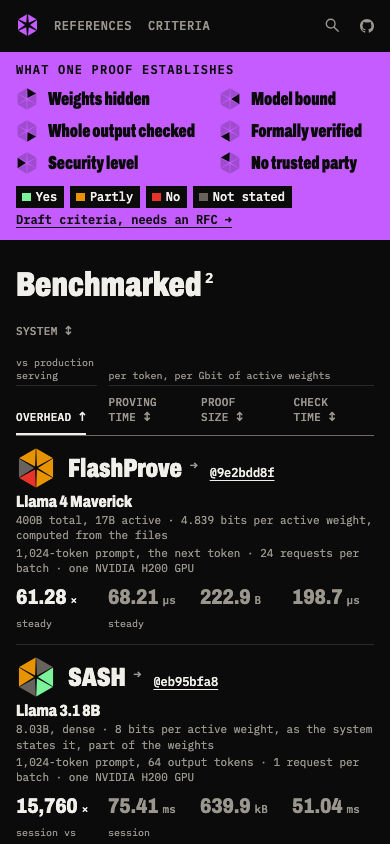
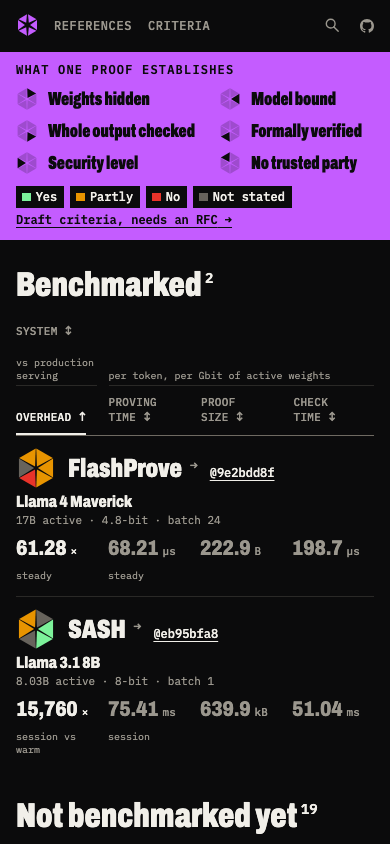
Overview: the model under each system in one short line
Owner feedback on #360: the model text under each system name says only
what a comparison needs, as concisely as the figures. Line 1 the model
name; line 2 active parameters, the weight width the per-Gbit columns
divide by, and the batch size ("17B active · 4.8-bit · batch 24"), plus
the division for a closed or open workload. Total parameters, the
width's basis, prompt and output lengths and the GPUs move to the model
cell's title; the system page keeps all of them.

Claude-Session: https://claude.ai/code/session_011qCSbnjLPKFSQTeMa9vkid

diff --git a/harness/tests/golden/site/index.html b/harness/tests/golden/site/index.html
@@ -20,7 +20,7 @@
     <div class="sysc" role="rowheader" aria-labelledby="fixture-closed-name">
       <a class="pie" href="/fixture-closed#claims-sound-defaults" tabindex="-1" aria-hidden="true"><svg class="pie-svg" viewBox="0 0 120 120" width="120" height="120" aria-hidden="true" focusable="false"><path class="sl s1 unstated" data-n="1" data-name="Weights hidden" data-word="Not stated" d="M60.74 1.33L110.45 30.02L62.81 55.13Z"/><path class="sl s2 yes" data-n="2" data-name="Model bound" data-word="Yes" d="M111.18 31.30L111.18 88.70L65.62 60.00Z"/><path class="sl s3 yes" data-n="3" data-name="Whole output checked" data-word="Yes" d="M110.45 89.98L60.74 118.67L62.81 64.87Z"/><path class="sl s4 unstated" data-n="4" data-name="Formally verified" data-word="Not stated" d="M59.26 118.67L9.55 89.98L57.19 64.87Z"/><path class="sl s5 partly" data-n="5" data-name="Security level" data-word="Partly" d="M8.82 88.70L8.82 31.30L54.38 60.00Z"/><path class="sl s6 partly" data-n="6" data-name="No trusted party" data-word="Partly" d="M9.55 30.02L59.26 1.33L57.19 55.13Z"/><g class="hit"><path class="h1" data-n="1" d="M60.00 0.90L111.18 30.45L60.00 60.00Z"/><path class="h2" data-n="2" d="M111.18 30.45L111.18 89.55L60.00 60.00Z"/><path class="h3" data-n="3" d="M111.18 89.55L60.00 119.10L60.00 60.00Z"/><path class="h4" data-n="4" d="M60.00 119.10L8.82 89.55L60.00 60.00Z"/><path class="h5" data-n="5" d="M8.82 89.55L8.82 30.45L60.00 60.00Z"/><path class="h6" data-n="6" d="M8.82 30.45L60.00 0.90L60.00 60.00Z"/></g></svg><span class="tip"></span></a>
       <div class="who"><h3 class="name" id="fixture-closed-name"><a href="/fixture-closed#claims-sound-defaults">Fixture prover</a></h3><p class="sr">Weights hidden: Not stated; Model bound: Yes; Whole output checked: Yes; Formally verified: Not stated; Security level: Partly; No trusted party: Partly.</p><p class="wl"><a class="pin" href="https://github.com/sg-ai-safety-hub/zk-inference-prover/tree/eb95bfa887299d1637550228d42086c27cbb2b3b" title="Pinned upstream commit eb95bfa887299d1637550228d42086c27cbb2b3b" target="_blank" rel="noopener noreferrer">@eb95bfa8</a></p></div>
-      <div class="mc"><p class="mn">Llama 3.1 8B</p><p class="ms"><span>8.03B, dense</span><span class="sep"> · </span><span>8 bits per active weight, as the system states it, part of the weights</span></p><p class="ms"><span>1,024-token prompt, 64 output tokens</span><span class="sep"> · </span><span>1 request per batch</span><span class="sep"> · </span><span>one H100 GPU</span><span class="sep"> · </span><span>closed division</span></p></div>
+      <div class="mc" title="8.03B, dense · 8 bits per active weight, as the system states it, part of the weights · 1,024-token prompt, 64 output tokens · 1 request per batch · one H100 GPU"><p class="mn">Llama 3.1 8B</p><p class="ms"><span>8.03B active</span><span class="sep"> · </span><span>8-bit</span><span class="sep"> · </span><span>batch 1</span><span class="sep"> · </span><span>closed division</span></p></div>
     </div>
     <div class="vals"><div class="vc" role="cell" data-col="overhead"><a class="val" href="/fixture-closed#fig-overhead" title="No production-serving run on this profile&#x27;s GPU model is in the release, so there is no baseline to divide by."><span class="lbl">Overhead vs production serving<span class="sr">, Fixture prover</span></span><span class="vm"><span class="na">No value</span></span></a></div><div class="vc" role="cell" data-col="per_bit"><a class="val" href="/fixture-closed#fig-per_bit" title="18.29 ms per token, per Gbit of active weights · scope: proving session · grade: calculated from recorded numbers · checked: one runner, not yet checked · source: releases/v0.1/index.json#/configurations/0/statistics/seconds_per_active_weight_bit_token_prove.session · spread: 3 completed, 0 failed · 18.11 ms to 18.51 ms · mean 18.29 ms · sd 204.6 µs · weight bits: 8 bits per active weight, as the system states it, part of the weights · Attention cost grows with prompt length and is not in this normaliser, so two workloads of one model with different prompt lengths differ for that reason too (the SASH workloads have 1,024 and 4,096 prompt tokens). Weight bits are as the workload records them, with their basis and source."><span class="lbl">Proving time per token, per Gbit of active weights<span class="sr">, Fixture prover</span></span><span class="vm"><span class="fig"><span class="n">18.29</span><span class="u">ms</span></span></span><span class="sub"><span>session</span></span></a></div><div class="vc" role="cell" data-col="size_bit"><a class="val" href="/fixture-closed#fig-size_bit" title="283.3 kB per token, per Gbit of active weights · scope: none (not a timed number) · grade: calculated from recorded numbers · checked: one runner, not yet checked · source: releases/v0.1/index.json#/configurations/0/statistics/proof_bytes_per_active_weight_bit_token · spread: 3 completed, 0 failed · 283.3 kB to 283.3 kB · mean 283.3 kB · sd 0 · weight bits: 8 bits per active weight, as the system states it, part of the weights · Attention cost grows with prompt length and is not in this normaliser, so two workloads of one model with different prompt lengths differ for that reason too (the SASH workloads have 1,024 and 4,096 prompt tokens). Weight bits are as the workload records them, with their basis and source."><span class="lbl">Proof size per token, per Gbit of active weights<span class="sr">, Fixture prover</span></span><span class="vm"><span class="fig"><span class="n">283.3</span><span class="u">kB</span></span></span></a></div><div class="vc" role="cell" data-col="check_bit"><a class="val" href="/fixture-closed#fig-check_bit" title="1.735 ms per token, per Gbit of active weights · scope: checking (8 CPU threads) · grade: calculated from recorded numbers · checked: one runner, not yet checked · source: releases/v0.1/index.json#/configurations/0/statistics/verify_seconds_per_active_weight_bit_token · spread: 3 completed, 0 failed · 1.714 ms to 1.754 ms · mean 1.735 ms · sd 20.10 µs · weight bits: 8 bits per active weight, as the system states it, part of the weights · Attention cost grows with prompt length and is not in this normaliser, so two workloads of one model with different prompt lengths differ for that reason too (the SASH workloads have 1,024 and 4,096 prompt tokens). Weight bits are as the workload records them, with their basis and source."><span class="lbl">Check time per token, per Gbit of active weights<span class="sr">, Fixture prover</span></span><span class="vm"><span class="fig"><span class="n">1.735</span><span class="u">ms</span></span></span></a></div></div>
   </div>
@@ -30,7 +30,7 @@
     <div class="sysc" role="rowheader" aria-labelledby="flashprove-name">
       <a class="pie" href="/flashprove#claims-exact-match-cp-verify" tabindex="-1" aria-hidden="true"><svg class="pie-svg" viewBox="0 0 120 120" width="120" height="120" aria-hidden="true" focusable="false"><path class="sl s1 partly" data-n="1" data-name="Weights hidden" data-word="Partly" d="M60.74 1.33L110.45 30.02L62.81 55.13Z"/><path class="sl s2 partly" data-n="2" data-name="Model bound" data-word="Partly" d="M111.18 31.30L111.18 88.70L65.62 60.00Z"/><path class="sl s3 no" data-n="3" data-name="Whole output checked" data-word="No" d="M110.45 89.98L60.74 118.67L62.81 64.87Z"/><path class="sl s4 no" data-n="4" data-name="Formally verified" data-word="No" d="M59.26 118.67L9.55 89.98L57.19 64.87Z"/><path class="sl s5 unstated" data-n="5" data-name="Security level" data-word="Not stated" d="M8.82 88.70L8.82 31.30L54.38 60.00Z"/><path class="sl s6 partly" data-n="6" data-name="No trusted party" data-word="Partly" d="M9.55 30.02L59.26 1.33L57.19 55.13Z"/><g class="hit"><path class="h1" data-n="1" d="M60.00 0.90L111.18 30.45L60.00 60.00Z"/><path class="h2" data-n="2" d="M111.18 30.45L111.18 89.55L60.00 60.00Z"/><path class="h3" data-n="3" d="M111.18 89.55L60.00 119.10L60.00 60.00Z"/><path class="h4" data-n="4" d="M60.00 119.10L8.82 89.55L60.00 60.00Z"/><path class="h5" data-n="5" d="M8.82 89.55L8.82 30.45L60.00 60.00Z"/><path class="h6" data-n="6" d="M8.82 30.45L60.00 0.90L60.00 60.00Z"/></g></svg><span class="tip"></span></a>
       <div class="who"><h3 class="name" id="flashprove-name"><a href="/flashprove#claims-exact-match-cp-verify">FlashProve</a></h3><p class="sr">Weights hidden: Partly; Model bound: Partly; Whole output checked: No; Formally verified: No; Security level: Not stated; No trusted party: Partly.</p><p class="wl"><a class="pin" href="https://github.com/anthropics/FlashProve/tree/9e2bdd8ff5bf9c62f18263d7dac189b0400b260c" title="Pinned upstream commit 9e2bdd8ff5bf9c62f18263d7dac189b0400b260c" target="_blank" rel="noopener noreferrer">@9e2bdd8f</a></p></div>
-      <div class="mc"><p class="mn">Llama 4 Maverick</p><p class="ms"><span>400B total, 17B active</span><span class="sep"> · </span><span>4.839 bits per active weight, computed from the files</span></p><p class="ms"><span>1,024-token prompt, the next token</span><span class="sep"> · </span><span>24 requests per batch</span><span class="sep"> · </span><span>one H100 GPU</span></p></div>
+      <div class="mc" title="400B total, 17B active · 4.839 bits per active weight, computed from the files · 1,024-token prompt, the next token · 24 requests per batch · one H100 GPU"><p class="mn">Llama 4 Maverick</p><p class="ms"><span>17B active</span><span class="sep"> · </span><span>4.8-bit</span><span class="sep"> · </span><span>batch 24</span></p></div>
     </div>
     <div class="vals"><div class="vc" role="cell" data-col="overhead"><a class="val" href="/flashprove#flashprove--exact-match-cp-verify--fp-maverick-w1024-b24-fig-overhead" title="No production-serving run on this profile&#x27;s GPU model is in the release, so there is no baseline to divide by."><span class="lbl">Overhead vs production serving<span class="sr">, FlashProve</span></span><span class="vm"><span class="na">No value</span></span></a></div><div class="vc" role="cell" data-col="per_bit"><a class="val" href="/flashprove#flashprove--exact-match-cp-verify--fp-maverick-w1024-b24-fig-per_bit" title="88.57 µs per token, per Gbit of active weights · scope: proving, steady state · grade: calculated from recorded numbers · checked: one runner, not yet checked · source: releases/v0.1/index.json#/configurations/2/statistics/seconds_per_active_weight_bit_token_prove.steady · spread: 3 completed, 0 failed · 87.94 µs to 89.27 µs · mean 88.57 µs · sd 666.1 ns · weight bits: 4.839 bits per active weight, computed from the files · Attention cost grows with prompt length and is not in this normaliser, so two workloads of one model with different prompt lengths differ for that reason too (the SASH workloads have 1,024 and 4,096 prompt tokens). Weight bits are as the workload records them, with their basis and source."><span class="lbl">Proving time per token, per Gbit of active weights<span class="sr">, FlashProve</span></span><span class="vm"><span class="fig"><span class="n">88.57</span><span class="u">µs</span></span></span><span class="sub"><span>steady</span></span></a></div><div class="vc" role="cell" data-col="size_bit"><a class="val" href="/flashprove#flashprove--exact-match-cp-verify--fp-maverick-w1024-b24-fig-size_bit" title="222.9 B per token, per Gbit of active weights · scope: none (not a timed number) · grade: calculated from recorded numbers · checked: one runner, not yet checked · source: releases/v0.1/index.json#/configurations/2/statistics/proof_bytes_per_active_weight_bit_token · spread: 3 completed, 0 failed · 222.9 B to 223.0 B · mean 222.9 B · sd 0.05963 B · weight bits: 4.839 bits per active weight, computed from the files · Attention cost grows with prompt length and is not in this normaliser, so two workloads of one model with different prompt lengths differ for that reason too (the SASH workloads have 1,024 and 4,096 prompt tokens). Weight bits are as the workload records them, with their basis and source."><span class="lbl">Proof size per token, per Gbit of active weights<span class="sr">, FlashProve</span></span><span class="vm"><span class="fig"><span class="n">222.9</span><span class="u">B</span></span></span></a></div><div class="vc" role="cell" data-col="check_bit"><a class="val" href="/flashprove#flashprove--exact-match-cp-verify--fp-maverick-w1024-b24-fig-check_bit" title="37.04 µs per token, per Gbit of active weights · scope: checking (8 CPU threads) · grade: calculated from recorded numbers · checked: one runner, not yet checked · source: releases/v0.1/index.json#/configurations/2/statistics/verify_seconds_per_active_weight_bit_token · spread: 3 completed, 0 failed · 36.68 µs to 37.39 µs · mean 37.04 µs · sd 356.1 ns · weight bits: 4.839 bits per active weight, computed from the files · Attention cost grows with prompt length and is not in this normaliser, so two workloads of one model with different prompt lengths differ for that reason too (the SASH workloads have 1,024 and 4,096 prompt tokens). Weight bits are as the workload records them, with their basis and source."><span class="lbl">Check time per token, per Gbit of active weights<span class="sr">, FlashProve</span></span><span class="vm"><span class="fig"><span class="n">37.04</span><span class="u">µs</span></span></span></a></div></div>
   </div>
@@ -40,7 +40,7 @@
     <div class="sysc" role="rowheader" aria-labelledby="sash-name">
       <a class="pie" href="/sash#claims-sound-defaults" tabindex="-1" aria-hidden="true"><svg class="pie-svg" viewBox="0 0 120 120" width="120" height="120" aria-hidden="true" focusable="false"><path class="sl s1 none" data-n="1" d="M60.74 1.33L110.45 30.02L62.81 55.13Z"/><path class="sl s2 none" data-n="2" d="M111.18 31.30L111.18 88.70L65.62 60.00Z"/><path class="sl s3 none" data-n="3" d="M110.45 89.98L60.74 118.67L62.81 64.87Z"/><path class="sl s4 none" data-n="4" d="M59.26 118.67L9.55 89.98L57.19 64.87Z"/><path class="sl s5 none" data-n="5" d="M8.82 88.70L8.82 31.30L54.38 60.00Z"/><path class="sl s6 none" data-n="6" d="M9.55 30.02L59.26 1.33L57.19 55.13Z"/><g class="hit"><path class="h1" data-n="1" d="M60.00 0.90L111.18 30.45L60.00 60.00Z"/><path class="h2" data-n="2" d="M111.18 30.45L111.18 89.55L60.00 60.00Z"/><path class="h3" data-n="3" d="M111.18 89.55L60.00 119.10L60.00 60.00Z"/><path class="h4" data-n="4" d="M60.00 119.10L8.82 89.55L60.00 60.00Z"/><path class="h5" data-n="5" d="M8.82 89.55L8.82 30.45L60.00 60.00Z"/><path class="h6" data-n="6" d="M8.82 30.45L60.00 0.90L60.00 60.00Z"/></g></svg><span class="tip"></span></a>
       <div class="who"><h3 class="name" id="sash-name"><a href="/sash#claims-sound-defaults">SASH</a></h3><p class="wl"><a class="pin" href="https://github.com/sg-ai-safety-hub/zk-inference-prover/tree/eb95bfa887299d1637550228d42086c27cbb2b3b" title="Pinned upstream commit eb95bfa887299d1637550228d42086c27cbb2b3b" target="_blank" rel="noopener noreferrer">@eb95bfa8</a></p></div>
-      <div class="mc"><p class="mn">Llama 3.1 8B</p><p class="ms"><span>8.03B, dense</span><span class="sep"> · </span><span>8 bits per active weight, as the system states it, part of the weights</span></p><p class="ms"><span>1,024-token prompt, 64 output tokens</span><span class="sep"> · </span><span>1 request per batch</span><span class="sep"> · </span><span>one H100 GPU</span></p></div>
+      <div class="mc" title="8.03B, dense · 8 bits per active weight, as the system states it, part of the weights · 1,024-token prompt, 64 output tokens · 1 request per batch · one H100 GPU"><p class="mn">Llama 3.1 8B</p><p class="ms"><span>8.03B active</span><span class="sep"> · </span><span>8-bit</span><span class="sep"> · </span><span>batch 1</span></p></div>
     </div>
     <div class="vals"><div class="vc" role="cell" data-col="overhead"><a class="val" href="/sash#sash--sound-defaults--sash-l31-8b-c1024-fig-overhead" title="No production-serving run on this profile&#x27;s GPU model is in the release, so there is no baseline to divide by."><span class="lbl">Overhead vs production serving<span class="sr">, SASH</span></span><span class="vm"><span class="na">No value</span></span></a></div><div class="vc" role="cell" data-col="per_bit"><a class="val" href="/sash#sash--sound-defaults--sash-l31-8b-c1024-fig-per_bit" title="18.29 ms per token, per Gbit of active weights · scope: proving session · grade: calculated from recorded numbers · checked: one runner, not yet checked · source: releases/v0.1/index.json#/configurations/6/statistics/seconds_per_active_weight_bit_token_prove.session · spread: 3 completed, 1 failed · 18.11 ms to 18.51 ms · mean 18.29 ms · sd 204.6 µs · weight bits: 8 bits per active weight, as the system states it, part of the weights · Attention cost grows with prompt length and is not in this normaliser, so two workloads of one model with different prompt lengths differ for that reason too (the SASH workloads have 1,024 and 4,096 prompt tokens). Weight bits are as the workload records them, with their basis and source."><span class="lbl">Proving time per token, per Gbit of active weights<span class="sr">, SASH</span></span><span class="vm"><span class="fig"><span class="n">18.29</span><span class="u">ms</span></span></span><span class="sub"><span>session</span></span></a></div><div class="vc" role="cell" data-col="size_bit"><a class="val" href="/sash#sash--sound-defaults--sash-l31-8b-c1024-fig-size_bit" title="283.3 kB per token, per Gbit of active weights · scope: none (not a timed number) · grade: calculated from recorded numbers · checked: one runner, not yet checked · source: releases/v0.1/index.json#/configurations/6/statistics/proof_bytes_per_active_weight_bit_token · spread: 3 completed, 1 failed · 283.3 kB to 283.3 kB · mean 283.3 kB · sd 0 · weight bits: 8 bits per active weight, as the system states it, part of the weights · Attention cost grows with prompt length and is not in this normaliser, so two workloads of one model with different prompt lengths differ for that reason too (the SASH workloads have 1,024 and 4,096 prompt tokens). Weight bits are as the workload records them, with their basis and source."><span class="lbl">Proof size per token, per Gbit of active weights<span class="sr">, SASH</span></span><span class="vm"><span class="fig"><span class="n">283.3</span><span class="u">kB</span></span></span></a></div><div class="vc" role="cell" data-col="check_bit"><a class="val" href="/sash#sash--sound-defaults--sash-l31-8b-c1024-fig-check_bit" title="1.735 ms per token, per Gbit of active weights · scope: checking (8 CPU threads) · grade: calculated from recorded numbers · checked: one runner, not yet checked · source: releases/v0.1/index.json#/configurations/6/statistics/verify_seconds_per_active_weight_bit_token · spread: 3 completed, 1 failed · 1.714 ms to 1.754 ms · mean 1.735 ms · sd 20.10 µs · weight bits: 8 bits per active weight, as the system states it, part of the weights · Attention cost grows with prompt length and is not in this normaliser, so two workloads of one model with different prompt lengths differ for that reason too (the SASH workloads have 1,024 and 4,096 prompt tokens). Weight bits are as the workload records them, with their basis and source."><span class="lbl">Check time per token, per Gbit of active weights<span class="sr">, SASH</span></span><span class="vm"><span class="fig"><span class="n">1.735</span><span class="u">ms</span></span></span></a></div></div>
   </div>

diff --git a/web/index.html b/web/index.html
@@ -20,7 +20,7 @@
     <div class="sysc" role="rowheader" aria-labelledby="flashprove-name">
       <a class="pie" href="/flashprove#claims-exact-match-cp-verify" tabindex="-1" aria-hidden="true"><svg class="pie-svg" viewBox="0 0 120 120" width="120" height="120" aria-hidden="true" focusable="false"><path class="sl s1 partly" data-n="1" data-name="Weights hidden" data-word="Partly" d="M60.74 1.33L110.45 30.02L62.81 55.13Z"/><path class="sl s2 partly" data-n="2" data-name="Model bound" data-word="Partly" d="M111.18 31.30L111.18 88.70L65.62 60.00Z"/><path class="sl s3 partly" data-n="3" data-name="Whole output checked" data-word="Partly" d="M110.45 89.98L60.74 118.67L62.81 64.87Z"/><path class="sl s4 no" data-n="4" data-name="Formally verified" data-word="No" d="M59.26 118.67L9.55 89.98L57.19 64.87Z"/><path class="sl s5 unstated" data-n="5" data-name="Security level" data-word="Not stated" d="M8.82 88.70L8.82 31.30L54.38 60.00Z"/><path class="sl s6 partly" data-n="6" data-name="No trusted party" data-word="Partly" d="M9.55 30.02L59.26 1.33L57.19 55.13Z"/><g class="hit"><path class="h1" data-n="1" d="M60.00 0.90L111.18 30.45L60.00 60.00Z"/><path class="h2" data-n="2" d="M111.18 30.45L111.18 89.55L60.00 60.00Z"/><path class="h3" data-n="3" d="M111.18 89.55L60.00 119.10L60.00 60.00Z"/><path class="h4" data-n="4" d="M60.00 119.10L8.82 89.55L60.00 60.00Z"/><path class="h5" data-n="5" d="M8.82 89.55L8.82 30.45L60.00 60.00Z"/><path class="h6" data-n="6" d="M8.82 30.45L60.00 0.90L60.00 60.00Z"/></g></svg><span class="tip"></span></a>
       <div class="who"><h3 class="name" id="flashprove-name"><a href="/flashprove#claims-exact-match-cp-verify">FlashProve</a></h3><p class="sr">Weights hidden: Partly; Model bound: Partly; Whole output checked: Partly; Formally verified: No; Security level: Not stated; No trusted party: Partly.</p><p class="wl"><a class="pin" href="https://github.com/anthropics/FlashProve/tree/9e2bdd8ff5bf9c62f18263d7dac189b0400b260c" title="Pinned upstream commit 9e2bdd8ff5bf9c62f18263d7dac189b0400b260c" target="_blank" rel="noopener noreferrer">@9e2bdd8f</a></p></div>
-      <div class="mc"><p class="mn">Llama 4 Maverick</p><p class="ms"><span>400B total, 17B active</span><span class="sep"> · </span><span>4.839 bits per active weight, computed from the files</span></p><p class="ms"><span>1,024-token prompt, the next token</span><span class="sep"> · </span><span>24 requests per batch</span><span class="sep"> · </span><span>one NVIDIA H200 GPU</span></p></div>
+      <div class="mc" title="400B total, 17B active · 4.839 bits per active weight, computed from the files · 1,024-token prompt, the next token · 24 requests per batch · one NVIDIA H200 GPU"><p class="mn">Llama 4 Maverick</p><p class="ms"><span>17B active</span><span class="sep"> · </span><span>4.8-bit</span><span class="sep"> · </span><span>batch 24</span></p></div>
     </div>
     <div class="vals"><div class="vc" role="cell" data-col="overhead"><a class="val" href="/flashprove#flashprove--exact-match-cp-verify--fp-maverick-w1024-b24-fig-overhead" title="61.28× · scope: steady state on both sides, start-up excluded · grade: calculated from recorded numbers · checked: one runner, not yet checked · pairs: 1 prover run × 3 serving runs, 61.00× to 61.51× · ran: UD-Q4_K_XL (4-bit) proved vs Meta FP8 served, vllm 0.32.0, 24 a batch · source: releases/v0.1/index.json#/configurations/1/statistics/overhead_vs_production_prove.steady"><span class="lbl">Overhead vs production serving<span class="sr">, FlashProve</span></span><span class="vm"><span class="fig"><span class="n">61.28</span><span class="u">×</span></span></span><span class="sub"><span>steady</span></span></a></div><div class="vc" role="cell" data-col="per_bit"><a class="val" href="/flashprove#flashprove--exact-match-cp-verify--fp-maverick-w1024-b24-fig-per_bit" title="68.21 µs per token, per Gbit of active weights · scope: proving, steady state · grade: calculated from recorded numbers · checked: one runner, not yet checked · source: releases/v0.1/index.json#/configurations/1/statistics/seconds_per_active_weight_bit_token_prove.steady · spread: 4 completed, 0 failed · 67.61 µs to 68.91 µs · mean 68.21 µs · sd 597.9 ns · weight bits: 4.839 bits per active weight, computed from the files · Attention cost grows with prompt length and is not in this normaliser, so two workloads of one model with different prompt lengths differ for that reason too (the SASH workloads have 1,024 and 4,096 prompt tokens). Weight bits are as the workload records them, with their basis and source."><span class="lbl">Proving time per token, per Gbit of active weights<span class="sr">, FlashProve</span></span><span class="vm"><span class="fig"><span class="n">68.21</span><span class="u">µs</span></span></span><span class="sub"><span>steady</span></span></a></div><div class="vc" role="cell" data-col="size_bit"><a class="val" href="/flashprove#flashprove--exact-match-cp-verify--fp-maverick-w1024-b24-fig-size_bit" title="222.9 B per token, per Gbit of active weights · scope: none (not a timed number) · grade: calculated from recorded numbers · checked: one runner, not yet checked · source: releases/v0.1/index.json#/configurations/1/statistics/proof_bytes_per_active_weight_bit_token · spread: 4 completed, 0 failed · 222.9 B to 222.9 B · mean 222.9 B · sd 0.01656 B · weight bits: 4.839 bits per active weight, computed from the files · Attention cost grows with prompt length and is not in this normaliser, so two workloads of one model with different prompt lengths differ for that reason too (the SASH workloads have 1,024 and 4,096 prompt tokens). Weight bits are as the workload records them, with their basis and source."><span class="lbl">Proof size per token, per Gbit of active weights<span class="sr">, FlashProve</span></span><span class="vm"><span class="fig"><span class="n">222.9</span><span class="u">B</span></span></span></a></div><div class="vc" role="cell" data-col="check_bit"><a class="val" href="/flashprove#flashprove--exact-match-cp-verify--fp-maverick-w1024-b24-fig-check_bit" title="198.7 µs per token, per Gbit of active weights · scope: checking (8 CPU threads) · grade: calculated from recorded numbers · checked: one runner, not yet checked · source: releases/v0.1/index.json#/configurations/1/statistics/verify_seconds_per_active_weight_bit_token · spread: 4 completed, 0 failed · 197.5 µs to 200.3 µs · mean 198.7 µs · sd 1.198 µs · weight bits: 4.839 bits per active weight, computed from the files · Attention cost grows with prompt length and is not in this normaliser, so two workloads of one model with different prompt lengths differ for that reason too (the SASH workloads have 1,024 and 4,096 prompt tokens). Weight bits are as the workload records them, with their basis and source."><span class="lbl">Check time per token, per Gbit of active weights<span class="sr">, FlashProve</span></span><span class="vm"><span class="fig"><span class="n">198.7</span><span class="u">µs</span></span></span></a></div></div>
   </div>
@@ -30,7 +30,7 @@
     <div class="sysc" role="rowheader" aria-labelledby="sash-name">
       <a class="pie" href="/sash#claims-sound-defaults" tabindex="-1" aria-hidden="true"><svg class="pie-svg" viewBox="0 0 120 120" width="120" height="120" aria-hidden="true" focusable="false"><path class="sl s1 unstated" data-n="1" data-name="Weights hidden" data-word="Not stated" d="M60.74 1.33L110.45 30.02L62.81 55.13Z"/><path class="sl s2 yes" data-n="2" data-name="Model bound" data-word="Yes" d="M111.18 31.30L111.18 88.70L65.62 60.00Z"/><path class="sl s3 yes" data-n="3" data-name="Whole output checked" data-word="Yes" d="M110.45 89.98L60.74 118.67L62.81 64.87Z"/><path class="sl s4 unstated" data-n="4" data-name="Formally verified" data-word="Not stated" d="M59.26 118.67L9.55 89.98L57.19 64.87Z"/><path class="sl s5 partly" data-n="5" data-name="Security level" data-word="Partly" d="M8.82 88.70L8.82 31.30L54.38 60.00Z"/><path class="sl s6 partly" data-n="6" data-name="No trusted party" data-word="Partly" d="M9.55 30.02L59.26 1.33L57.19 55.13Z"/><g class="hit"><path class="h1" data-n="1" d="M60.00 0.90L111.18 30.45L60.00 60.00Z"/><path class="h2" data-n="2" d="M111.18 30.45L111.18 89.55L60.00 60.00Z"/><path class="h3" data-n="3" d="M111.18 89.55L60.00 119.10L60.00 60.00Z"/><path class="h4" data-n="4" d="M60.00 119.10L8.82 89.55L60.00 60.00Z"/><path class="h5" data-n="5" d="M8.82 89.55L8.82 30.45L60.00 60.00Z"/><path class="h6" data-n="6" d="M8.82 30.45L60.00 0.90L60.00 60.00Z"/></g></svg><span class="tip"></span></a>
       <div class="who"><h3 class="name" id="sash-name"><a href="/sash#claims-sound-defaults">SASH</a></h3><p class="sr">Weights hidden: Not stated; Model bound: Yes; Whole output checked: Yes; Formally verified: Not stated; Security level: Partly; No trusted party: Partly.</p><p class="wl"><a class="pin" href="https://github.com/sg-ai-safety-hub/zk-inference-prover/tree/eb95bfa887299d1637550228d42086c27cbb2b3b" title="Pinned upstream commit eb95bfa887299d1637550228d42086c27cbb2b3b" target="_blank" rel="noopener noreferrer">@eb95bfa8</a></p></div>
-      <div class="mc"><p class="mn">Llama 3.1 8B</p><p class="ms"><span>8.03B, dense</span><span class="sep"> · </span><span>8 bits per active weight, as the system states it, part of the weights</span></p><p class="ms"><span>1,024-token prompt, 64 output tokens</span><span class="sep"> · </span><span>1 request per batch</span><span class="sep"> · </span><span>one NVIDIA H200 GPU</span></p></div>
+      <div class="mc" title="8.03B, dense · 8 bits per active weight, as the system states it, part of the weights · 1,024-token prompt, 64 output tokens · 1 request per batch · one NVIDIA H200 GPU"><p class="mn">Llama 3.1 8B</p><p class="ms"><span>8.03B active</span><span class="sep"> · </span><span>8-bit</span><span class="sep"> · </span><span>batch 1</span></p></div>
     </div>
     <div class="vals"><div class="vc" role="cell" data-col="overhead"><a class="val" href="/sash#fig-overhead" title="15,760× · scope: proving session (start-up included; it proves one request at a time) vs warm serving (steady) · grade: calculated from recorded numbers · checked: one runner, not yet checked · pairs: 3 prover runs × 3 serving runs, 15,410× to 16,220× · ran: W8A8 (8-bit weights and activations) proved vs Meta BF16 served, vllm 0.32.0, 1 a batch · source: releases/v0.1/index.json#/configurations/5/statistics/overhead_vs_production_warm"><span class="lbl">Overhead vs production serving<span class="sr">, SASH</span></span><span class="vm"><span class="fig"><span class="n">15,760</span><span class="u">×</span></span></span><span class="sub"><span>session vs warm</span></span></a></div><div class="vc" role="cell" data-col="per_bit"><a class="val" href="/sash#fig-per_bit" title="75.41 ms per token, per Gbit of active weights · scope: proving session · grade: calculated from recorded numbers · checked: one runner, not yet checked · source: releases/v0.1/index.json#/configurations/5/statistics/seconds_per_active_weight_bit_token_prove.session · spread: 3 completed, 1 failed · 74.52 ms to 76.81 ms · mean 75.41 ms · sd 1.232 ms · weight bits: 8 bits per active weight, as the system states it, part of the weights · Attention cost grows with prompt length and is not in this normaliser, so two workloads of one model with different prompt lengths differ for that reason too (the SASH workloads have 1,024 and 4,096 prompt tokens). Weight bits are as the workload records them, with their basis and source."><span class="lbl">Proving time per token, per Gbit of active weights<span class="sr">, SASH</span></span><span class="vm"><span class="fig"><span class="n">75.41</span><span class="u">ms</span></span></span><span class="sub"><span>session</span></span></a></div><div class="vc" role="cell" data-col="size_bit"><a class="val" href="/sash#fig-size_bit" title="639.9 kB per token, per Gbit of active weights · scope: none (not a timed number) · grade: calculated from recorded numbers · checked: one runner, not yet checked · source: releases/v0.1/index.json#/configurations/5/statistics/proof_bytes_per_active_weight_bit_token · spread: 3 completed, 1 failed · 639.5 kB to 640.0 kB · mean 639.9 kB · sd 320.9 B · weight bits: 8 bits per active weight, as the system states it, part of the weights · Attention cost grows with prompt length and is not in this normaliser, so two workloads of one model with different prompt lengths differ for that reason too (the SASH workloads have 1,024 and 4,096 prompt tokens). Weight bits are as the workload records them, with their basis and source."><span class="lbl">Proof size per token, per Gbit of active weights<span class="sr">, SASH</span></span><span class="vm"><span class="fig"><span class="n">639.9</span><span class="u">kB</span></span></span></a></div><div class="vc" role="cell" data-col="check_bit"><a class="val" href="/sash#fig-check_bit" title="51.04 ms per token, per Gbit of active weights · scope: checking (8 CPU threads) · grade: calculated from recorded numbers · checked: one runner, not yet checked · source: releases/v0.1/index.json#/configurations/5/statistics/verify_seconds_per_active_weight_bit_token · spread: 3 completed, 1 failed · 50.18 ms to 51.62 ms · mean 51.04 ms · sd 761.7 µs · weight bits: 8 bits per active weight, as the system states it, part of the weights · Attention cost grows with prompt length and is not in this normaliser, so two workloads of one model with different prompt lengths differ for that reason too (the SASH workloads have 1,024 and 4,096 prompt tokens). Weight bits are as the workload records them, with their basis and source."><span class="lbl">Check time per token, per Gbit of active weights<span class="sr">, SASH</span></span><span class="vm"><span class="fig"><span class="n">51.04</span><span class="u">ms</span></span></span></a></div></div>
   </div>

diff --git a/web/draw/overview.py b/web/draw/overview.py
@@ -120,19 +120,27 @@ def sort_heads():
 
 
 def model_lines(cfg):
-    """The row's model under the system's name: its name, total and active parameters with the
-    weight width the per-Gbit figures divide by, and what the workload ran."""
+    """The row's model under the system's name, only what a comparison needs: its name, then its
+    active parameters, the weight width the per-Gbit figures divide by and the batch size (and a
+    closed or open workload's division). The rest (total parameters, the width's basis, prompt
+    and output lengths, GPUs) is in the cell's title and on the system page."""
     p = cfg["workload"]["model"]["parameters"]
     total, active = p["total"], p["active_per_token"]
+    wb = cfg["workload"]["precision"].get("weight_bits") or {}
+    bits = f"{wb['bits']:.2g}-bit" if wb.get("bits") is not None else "bits not recorded"
+    short = [
+        f"{size_words(active)} active",
+        bits,
+        f"batch\u00a0{cfg['workload']['shape']['batch_size']:,}",
+    ]
+    if cfg["workload"]["division"] != "native":
+        short.append(f"{cfg['workload']['division']} division")
     size = (f"{size_words(total)}, dense" if total == active
             else f"{size_words(total)} total, {size_words(active)} active")  # fmt: skip
-    size += f" · {bits_words(cfg)}"
-    shape = shape_words(cfg)
-    if cfg["workload"]["division"] != "native":
-        shape += f" · {cfg['workload']['division']} division"
+    title = " · ".join([size, bits_words(cfg), shape_words(cfg)])
     return (
-        f'<div class="mc"><p class="mn">{e(S.MODEL_NAME[cfg["workload"]["model"]["digest"]])}</p>'
-        f'<p class="ms">{facts_line(readable(size))}</p><p class="ms">{facts_line(readable(shape))}</p></div>'
+        f'<div class="mc" title="{e(title)}"><p class="mn">{e(S.MODEL_NAME[cfg["workload"]["model"]["digest"]])}</p>'
+        f'<p class="ms">{facts_line(readable(" · ".join(short)))}</p></div>'
     )
 
 

diff --git a/harness/tests/unit/test_site.py b/harness/tests/unit/test_site.py
@@ -846,7 +846,10 @@ def test_each_figure_names_its_scope(site: Build) -> None:
         assert under["size_bit"] == under["check_bit"] == "", rid
         header = HEADER.search(body)
         assert header, rid
-        assert "per active weight" in plain(header[1]), rid
+        # the width in short in view, in full in the model cell's title
+        wb = cfg["workload"]["precision"]["weight_bits"]
+        assert f"{wb['bits']:.2g}-bit" in plain(header[1]), rid
+        assert "per active weight" in html.unescape(header[1]), rid
 
 
 def test_deployed_figures_by_hand() -> None:

diff --git a/web/README.md b/web/README.md
@@ -62,7 +62,7 @@ What the pages leave out of the data, or say differently, on purpose:
 
 ## Models
 
-The overview sets one table across models (owner decision of 2026-11-09, RFC-0009 S6): one row per benchmarked system, on the workload `_data/facts.json` names as its `overview_workload` (FlashProve: `fp-maverick-w1024-b24`), or its only configuration (`board_configs` in `draw/overview.py`, which stops the build when a system has more than one and names none). Its other configurations are on its system page only. The Model cell names the model, its total and active parameters and what the workload ran (prompt, output, batch, GPUs), and a closed or open workload's division. The rows go by overhead against production serving, ascending, a row with no overhead last, ties by name (`board_order`).
+The overview sets one table across models (owner decision of 2026-11-09, RFC-0009 S6): one row per benchmarked system, on the workload `_data/facts.json` names as its `overview_workload` (FlashProve: `fp-maverick-w1024-b24`), or its only configuration (`board_configs` in `draw/overview.py`, which stops the build when a system has more than one and names none). Its other configurations are on its system page only. The Model cell names the model, then only what a comparison needs: active parameters, the weight width the per-Gbit columns divide by ("4.8-bit") and the batch size, and a closed or open workload's division (owner decision of 2026-11-09). Total parameters, the width's basis, prompt and output lengths and GPUs are in the cell's title and on the system page. The rows go by overhead against production serving, ascending, a row with no overhead last, ties by name (`board_order`).
 
 **The placeholder release (until v0.1, #146).** `harness/tests/fixtures/placeholder_release.py` builds it in a temporary git tree from copies of the real `schema/`, `reference/`, `rfcs/`, `MAINTAINERS.md`, `LICENSES/`, the tracked files of this folder (less `shots/`), the two workloads and the system directories of FlashProve, SASH and the two references, none of them edited: each prover runs on its own native workload (RFC-0003). The runs are synthetic records of no real run: raw values chosen so the figures keep the digits the site printed before #320, every derived metric computed by `iproofs.derive`, so `iproofs release freeze` passes the real gates G2 to G7 on them. SASH has one failed and one superseded run. The references run on the Maverick workload only and fail every run with kind `resource` (RFC-0015 NM-1), so FlashProve's overhead and agreement rate are null; the placeholder holds no reference run on SASH's workload, so SASH's two figures read "Not recorded in these runs." One proof covers is each system's own count under its `tokens_covered` rule (`tokens_covered_per_proof`, D-STAT over D-TPP), read from the placeholder index like every other figure.
 
